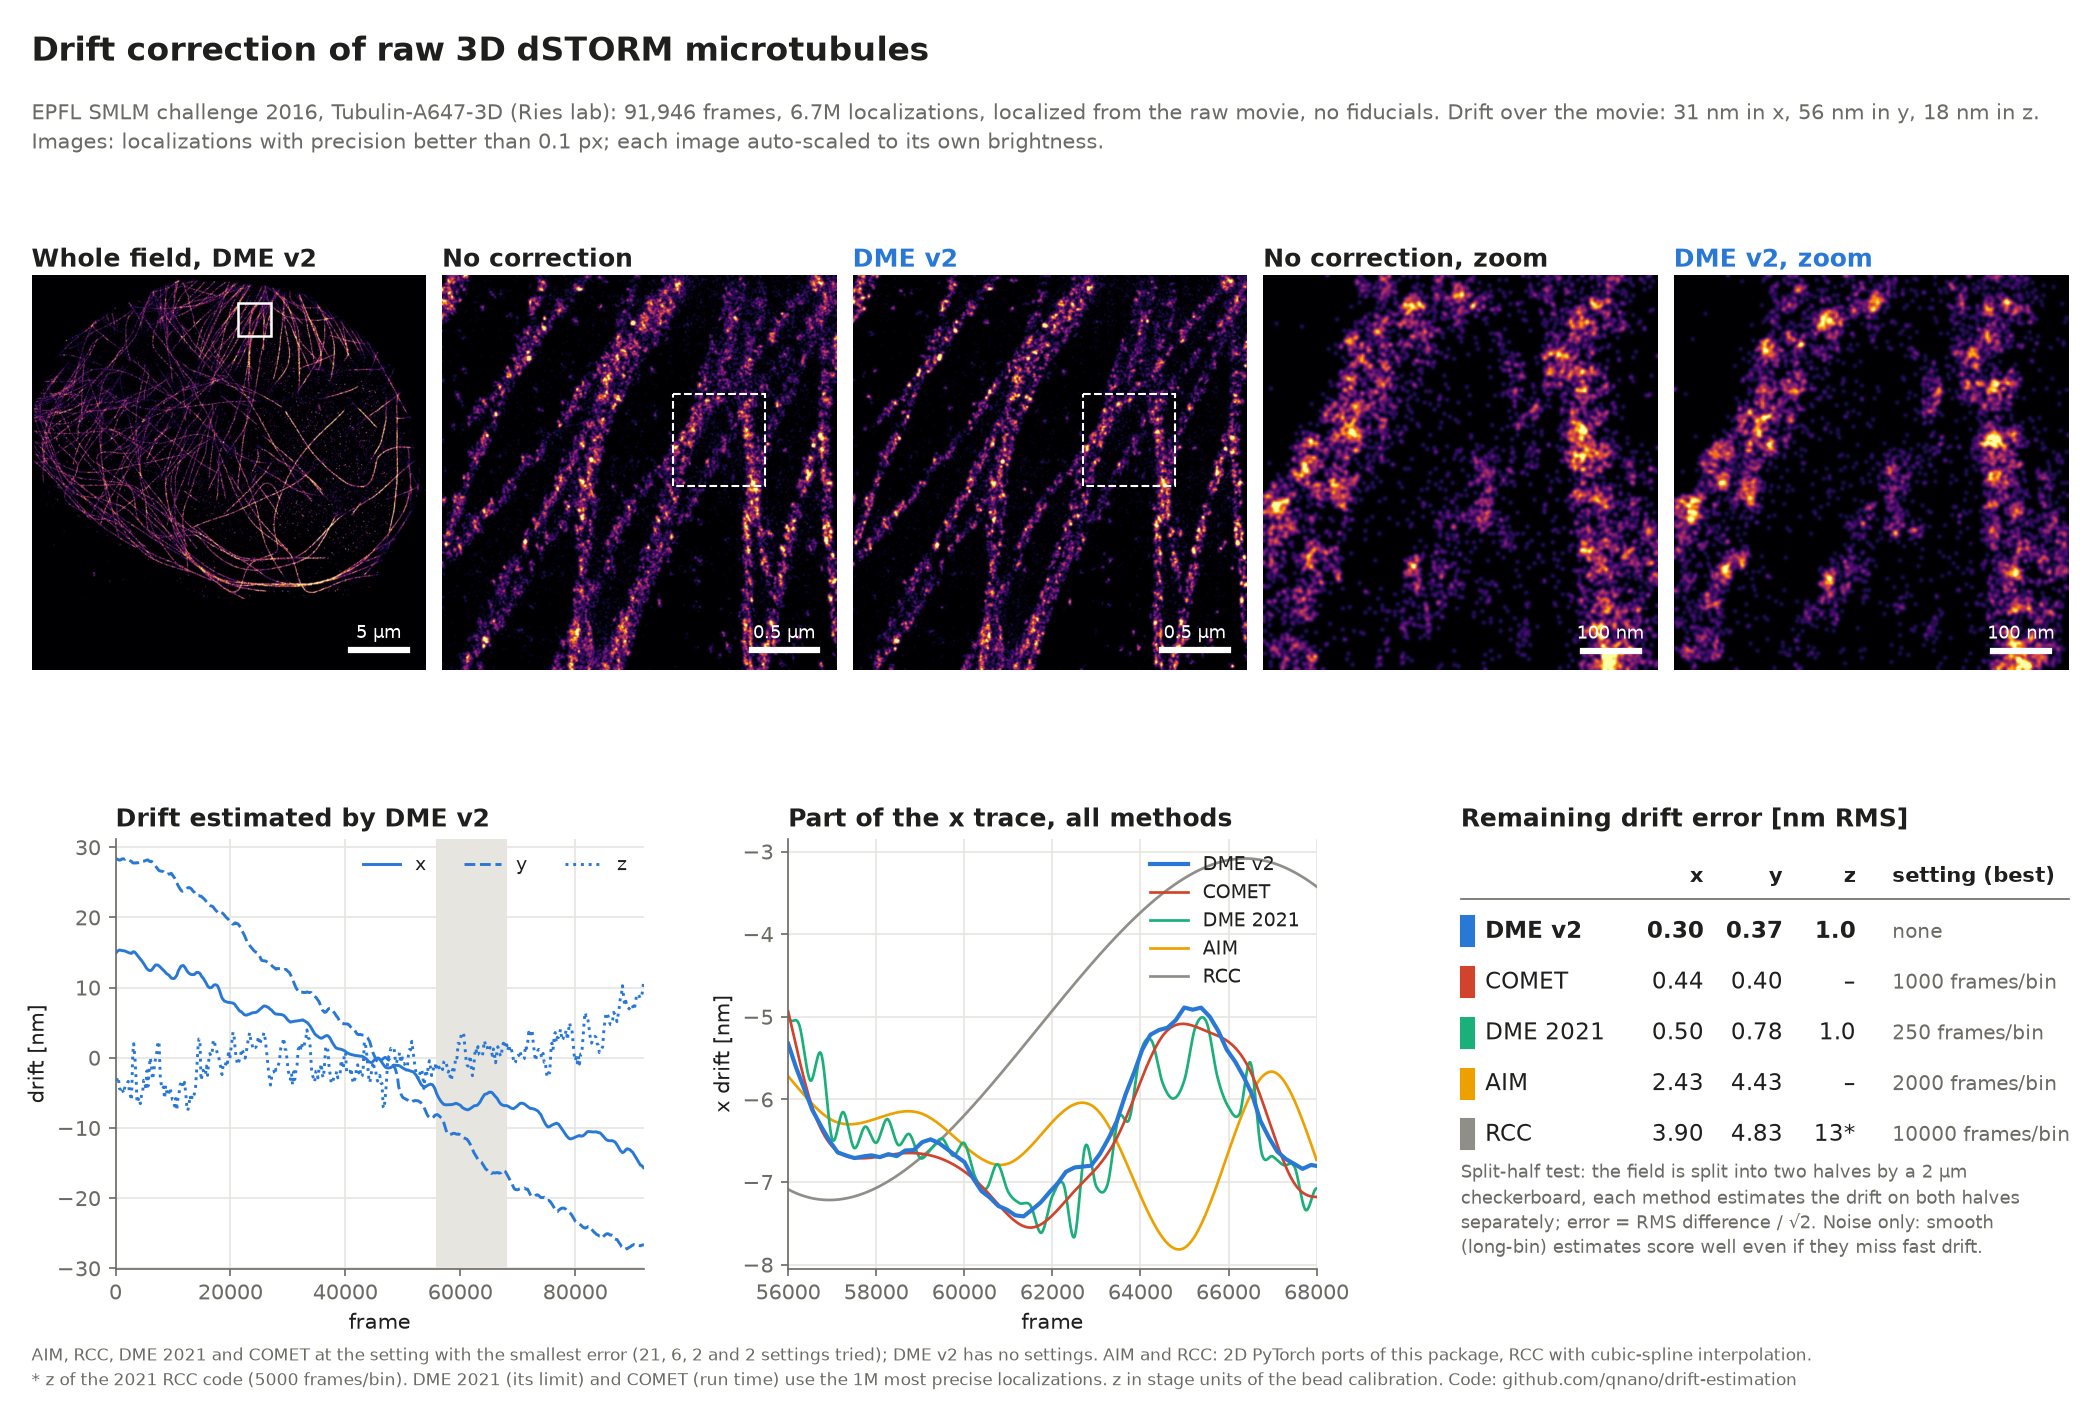
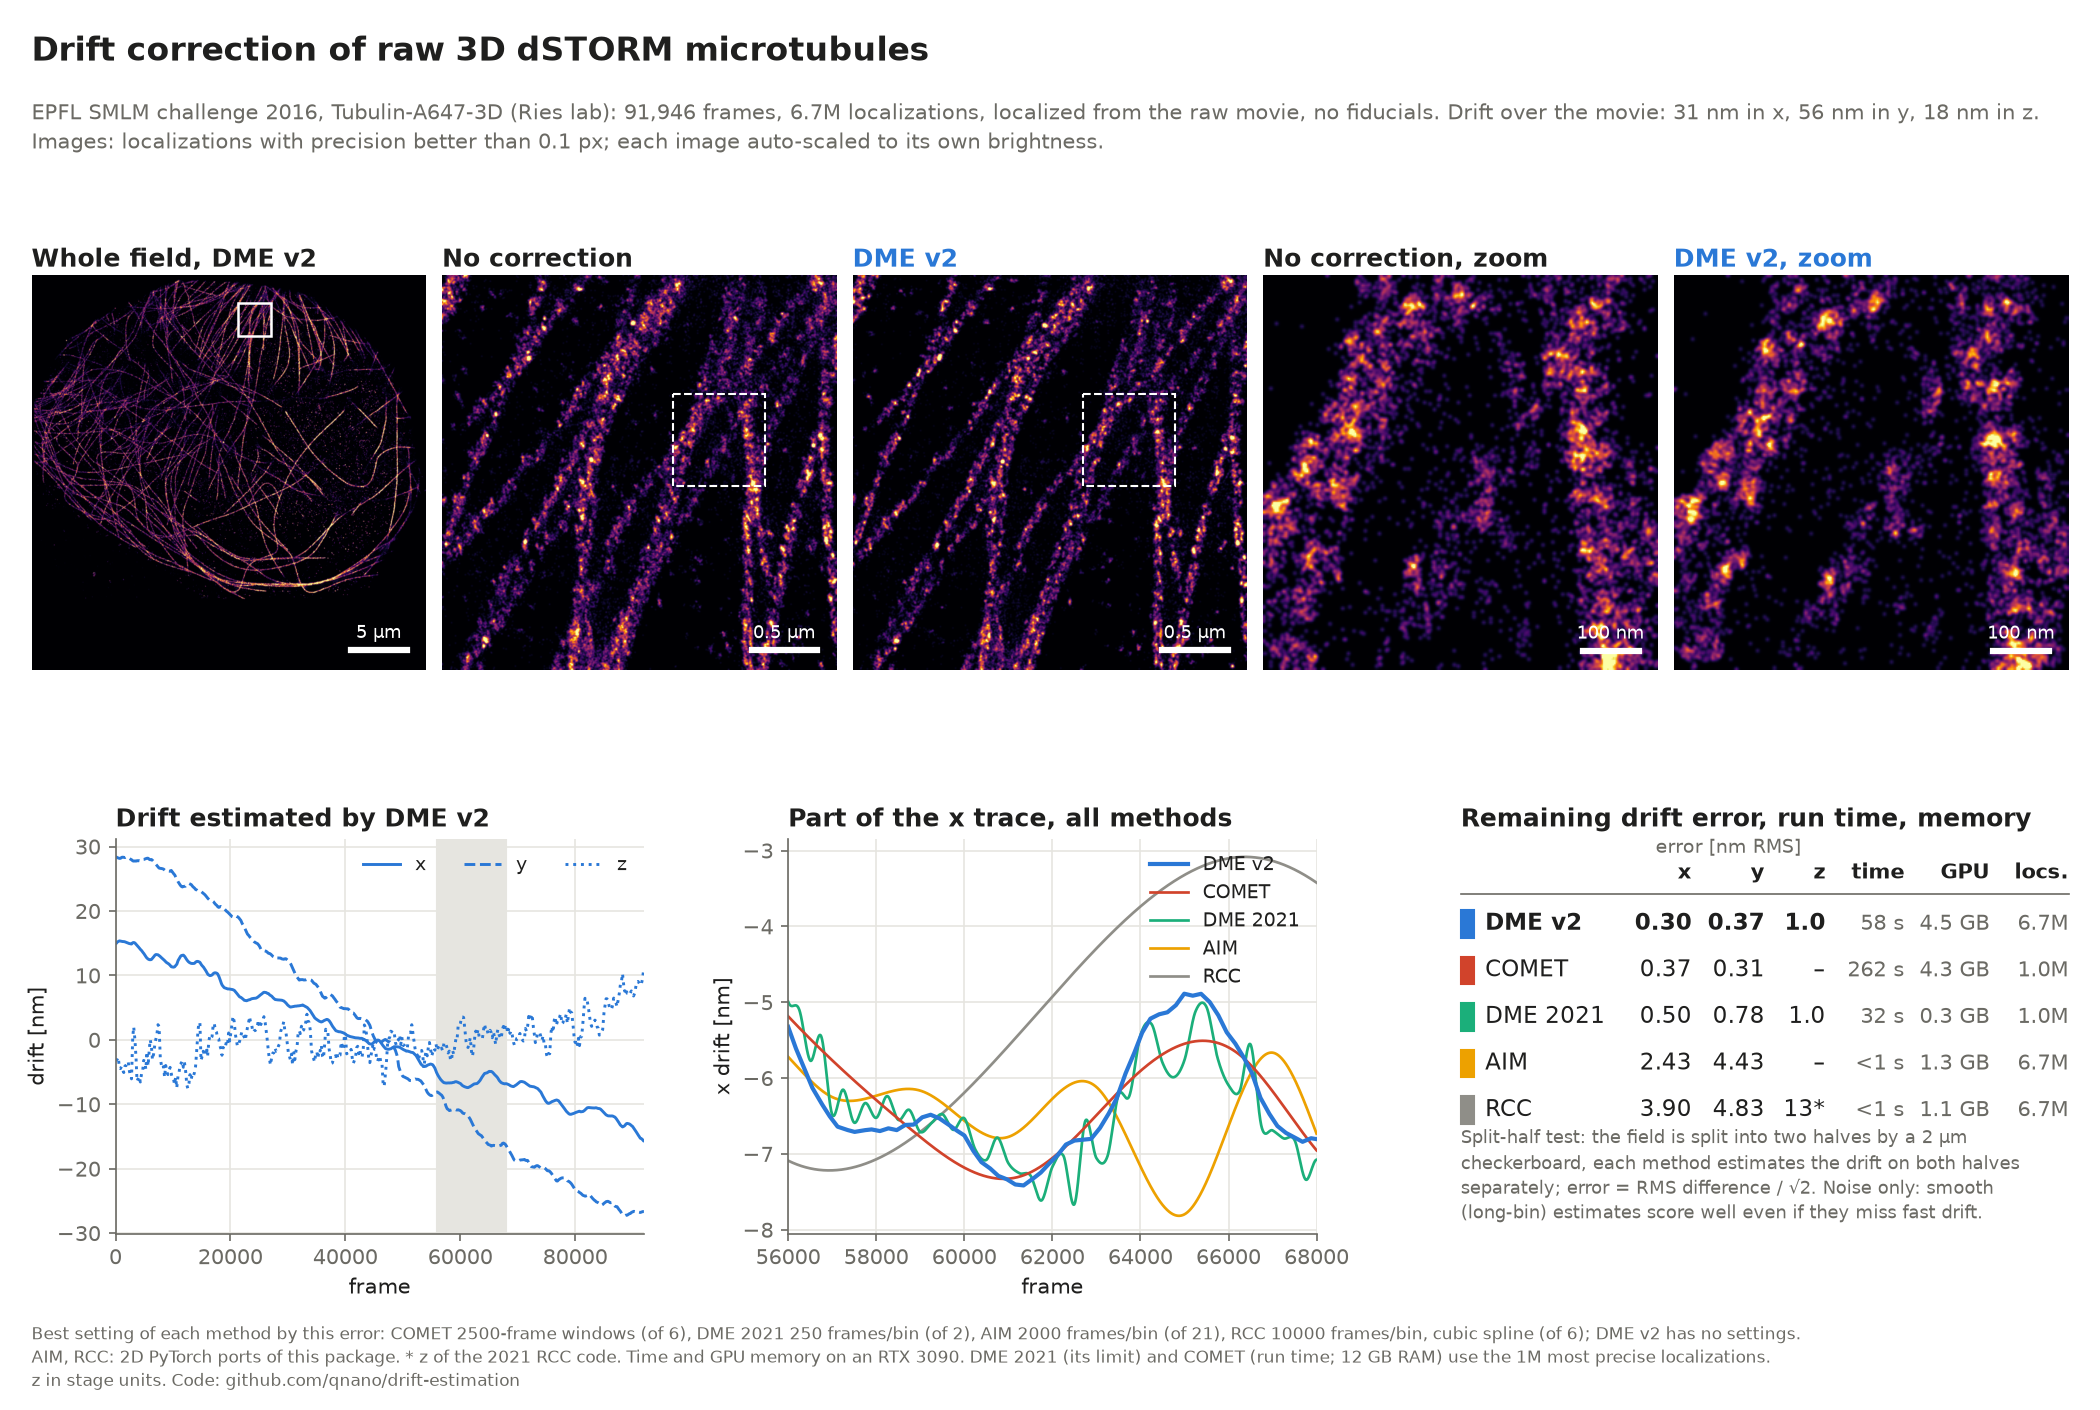
EPFL tubulin: full COMET sweep (best 2500-frame windows, 0.37 / 0.31 nm); run time and GPU memory per method
Claude-Session: https://claude.ai/code/session_01MCeZ1s93otYoT1FsjtimZY

diff --git a/benchmark/realdata_epfl/tub_figure.py b/benchmark/realdata_epfl/tub_figure.py
@@ -124,7 +124,7 @@ for k, (title, img, L, hl) in enumerate(panels):
     if k in (1, 2):
         ax.add_patch(Rectangle(((zx - cx) / 5, (zy - cy) / 5), ZL / 5, ZL / 5, fill=False, ec='white', lw=1.0, ls='--'))
 
-gbot = fig.add_gridspec(1, 3, left=0.055, right=0.985, top=0.405, bottom=0.10, wspace=0.26, width_ratios=[1, 1, 1.15])
+gbot = fig.add_gridspec(1, 3, left=0.055, right=0.985, top=0.405, bottom=0.125, wspace=0.26, width_ratios=[1, 1, 1.15])
 t = np.arange(F)
 T0, T1 = 56000, 68000
 ax1 = fig.add_subplot(gbot[0, 0])
@@ -146,38 +146,45 @@ for ax in (ax1, ax2):
     for sp in ('top', 'right'):
         ax.spines[sp].set_visible(False)
 
-# table of split-half errors
+# table: split-half errors, run time and GPU memory (drift/tub_bench.txt, written by tub_bench.py)
+bench = {}
+for line in open(f'{D}/drift/tub_bench.txt'):
+    w = line.split()
+    bench[w[0]] = dict(n=int(w[2]), time=float(w[4]), gpu=float(w[7]), ram=float(w[11]))
 ax3 = fig.add_subplot(gbot[0, 2]); ax3.axis('off')
-ax3.set_title('Remaining drift error [nm RMS]', fontsize=12, fontweight='bold', loc='left')
-rows = [('dme_v2', 'DME v2', 'dme_v2_3d', 'none'), ('comet', 'COMET', KEY['comet'], f'{CFB} frames/bin'),
-        ('dme2021', 'DME 2021', 'dme2021_3d_250', '250 frames/bin'),
-        ('aim', 'AIM', 'aim_2000_0.1', '2000 frames/bin'), ('rcc', 'RCC', KEY['rcc'], f'{RFB} frames/bin')]
+ax3.set_title('Remaining drift error, run time, memory', fontsize=12, fontweight='bold', loc='left')
+rows = [('dme_v2', 'DME v2', 'dme_v2_3d'), ('comet', 'COMET', KEY['comet']), ('dme2021', 'DME 2021', 'dme2021_3d_250'),
+        ('aim', 'AIM', 'aim_2000_0.1'), ('rcc', 'RCC', KEY['rcc'])]
 zrcc = split('rccorig3d_5000')[2]
-cols = [0.0, 0.40, 0.53, 0.65, 0.79]
-ax3.text(cols[1], 0.90, 'x', fontweight='bold', ha='right', transform=ax3.transAxes)
-ax3.text(cols[2], 0.90, 'y', fontweight='bold', ha='right', transform=ax3.transAxes)
-ax3.text(cols[3], 0.90, 'z', fontweight='bold', ha='right', transform=ax3.transAxes)
-ax3.text(cols[4] - 0.08, 0.90, 'setting (best)', fontweight='bold', transform=ax3.transAxes)
+cols = [0.38, 0.50, 0.60, 0.73, 0.87, 1.0]
+ax3.text((cols[0] + cols[2]) / 2 - 0.05, 0.965, 'error [nm RMS]', color=MUTED, ha='center', fontsize=9,
+         transform=ax3.transAxes)
+for cpos, hd in zip(cols, ('x', 'y', 'z', 'time', 'GPU', 'locs.')):
+    ax3.text(cpos, 0.90, hd, fontweight='bold', ha='right', transform=ax3.transAxes)
 ax3.plot([0, 1], [0.86, 0.86], color=MUTED, lw=0.8, transform=ax3.transAxes, clip_on=False)
-for r, (m, name, key, setting) in enumerate(rows):
+for r, (m, name, key) in enumerate(rows):
     e = split(key)
+    b = bench[m]
     y = 0.77 - r * 0.118
     fw = 'bold' if m == 'dme_v2' else 'normal'
     ax3.add_patch(Rectangle((0, y - 0.02), 0.022, 0.07, color=COL[m], transform=ax3.transAxes, clip_on=False))
     ax3.text(0.04, y, name, fontweight=fw, transform=ax3.transAxes, fontsize=11)
     zs = f'{e[2]:.1f}' if len(e) > 2 else (f'{zrcc:.0f}*' if m == 'rcc' else '–')
-    for cpos, sv in zip(cols[1:4], (f'{e[0]:.2f}', f'{e[1]:.2f}', zs)):
-        ax3.text(cpos, y, sv, ha='right', fontweight=fw, transform=ax3.transAxes, fontsize=11)
-    ax3.text(cols[4] - 0.08, y, setting, color=MUTED, transform=ax3.transAxes, fontsize=9.5)
-    print(name, e.round(2), flush=True)
+    ts = f'{b["time"]:.0f} s' if b['time'] >= 1 else '<1 s'
+    vals = (f'{e[0]:.2f}', f'{e[1]:.2f}', zs, ts, f'{b["gpu"]:.1f} GB', f'{b["n"] / 1e6:.1f}M')
+    for k_, (cpos, sv) in enumerate(zip(cols, vals)):
+        ax3.text(cpos, y, sv, ha='right', fontweight=fw if k_ < 3 else 'normal', transform=ax3.transAxes,
+                 fontsize=11 if k_ < 3 else 10, color=INK if k_ < 3 else MUTED)
+    print(name, e.round(2), b, flush=True)
 ax3.text(0, 0.02, 'Split-half test: the field is split into two halves by a 2 µm\ncheckerboard, each method estimates '
          'the drift on both halves\nseparately; error = RMS difference / √2. Noise only: smooth\n(long-bin) estimates '
          'score well even if they miss fast drift.', fontsize=8.6, color=MUTED, transform=ax3.transAxes, va='bottom',
          linespacing=1.4)
-fig.text(0.015, 0.012, f'AIM, RCC, DME 2021 and COMET at the setting with the smallest error (21, 6, 2 and {len(cs)} settings tried); '
-         'DME v2 has no settings. AIM and RCC: 2D PyTorch ports of this package, RCC with cubic-spline interpolation.\n'
-         '* z of the 2021 RCC code (5000 frames/bin). DME 2021 (its limit) and COMET (run time) use the 1M most precise localizations. '
-         'z in stage units of the bead calibration. Code: github.com/qnano/drift-estimation', fontsize=8.2,
-         color=MUTED, ha='left', va='bottom', linespacing=1.45)
+fig.text(0.015, 0.012, f'Best setting of each method by this error: COMET {CFB}-frame windows (of {len(cs)}), DME 2021 '
+         f'250 frames/bin (of 2), AIM 2000 frames/bin (of 21), RCC {RFB} frames/bin, cubic spline (of 6); DME v2 has no '
+         'settings.\nAIM, RCC: 2D PyTorch ports of this package. * z of the 2021 RCC code. Time and GPU memory on an '
+         f'RTX 3090. DME 2021 (its limit) and COMET (run time; {bench["comet"]["ram"]:.0f} GB RAM) use the 1M most '
+         'precise localizations.\nz in stage units. Code: github.com/qnano/drift-estimation', fontsize=8.0,
+         color=MUTED, ha='left', va='bottom', linespacing=1.4)
 fig.savefig(f'{D}/drift/tub_figure.png', dpi=150, facecolor='white')
 print('saved')

diff --git a/benchmark/realdata_epfl/tub_bench.py b/benchmark/realdata_epfl/tub_bench.py
@@ -1,0 +1,72 @@
+"""Run time, peak GPU memory (of this process, from nvidia-smi, CUDA context included) and peak RAM of one method at its
+best setting on the tubulin data. One method per process: python tub_bench.py dme_v2|dme2021|comet|aim|rcc
+Appends a line to drift/tub_bench.txt."""
+import os, sys, time, threading, subprocess, resource
+import numpy as np
+import pandas as pd
+
+m = sys.argv[1]
+D = os.path.join(os.environ.get('EPFL_DATA', '/mnt/data/SMLM_challenge'), 'Tubulin-A647-3D')
+PXX, PXY = 117.0, 118.2
+df = pd.read_csv(f'{D}/locs/Tubulin-A647-3D_locs.csv')
+df = df[df['flags'] == 0]
+p = np.ascontiguousarray(np.stack([df.x, df.y, df.z / 1000], 1), dtype=np.float32)
+c = np.ascontiguousarray(np.stack([df.crlb_x, df.crlb_y, df.crlb_z / 1000], 1), dtype=np.float32)
+f = np.ascontiguousarray(df.frame, dtype=np.int32)
+F = int(f.max()) + 1
+del df
+if m in ('dme2021', 'comet'):                       # 1M most precise localizations
+    s = np.sort(np.argsort(c[:, 0] * c[:, 1], kind='stable')[:1_000_000])
+    p, c, f = np.ascontiguousarray(p[s]), np.ascontiguousarray(c[s]), np.ascontiguousarray(f[s])
+ram0 = resource.getrusage(resource.RUSAGE_SELF).ru_maxrss / 1e6          # GB, data loaded
+peak, stop = [0.0], [False]
+
+
+def poll():
+    while not stop[0]:
+        try:
+            o = subprocess.run(['nvidia-smi', '--query-compute-apps=pid,used_memory', '--format=csv,noheader,nounits'],
+                               capture_output=True, text=True).stdout
+            for line in o.splitlines():
+                pid, mem = line.split(',')
+                if int(pid) == os.getpid():
+                    peak[0] = max(peak[0], float(mem) / 1024)
+        except Exception:
+            pass
+        time.sleep(0.25)
+
+
+if m == 'dme_v2':
+    sys.path.insert(0, os.environ.get('DME_PATH', '/tmp/fast/wt'))
+    from dme import dme_estimate
+    run = lambda: dme_estimate(p, f, c, estimatePrecision=False, verbose=False, numframes=F)
+elif m == 'aim':
+    sys.path.insert(0, os.environ.get('DME_PATH', '/tmp/fast/wt'))
+    from dme import aim
+    run = lambda: aim(p, f, interval=2000, intersect_d=0.1, numframes=F)
+elif m == 'rcc':
+    sys.path.insert(0, os.environ.get('DME_PATH', '/tmp/fast/wt'))
+    from dme import rcc_torch
+    run = lambda: rcc_torch(p[:, :2], f, timebins=F // 10000, zoom=2, maxdrift_px=10, numframes=F)
+elif m == 'dme2021':
+    sys.path.insert(0, os.environ.get('DME2021_PATH', os.path.expanduser('~/dme_v2_test')))
+    from dme.legacy import dme_estimate as leg
+    run = lambda: leg(p, f, c, 250, None, useCuda=True, display=False, estimatePrecision=False, initializeWithRCC=10,
+                      numframes=F)
+elif m == 'comet':
+    from comet import comet_run_kd
+    ds = np.zeros((len(p), 4))
+    ds[:, 0], ds[:, 1], ds[:, 3] = p[:, 0] * PXX, p[:, 1] * PXY, f
+    run = lambda: comet_run_kd(ds, segmentation_mode=2, segmentation_var=2500, max_drift_nm=300, target_sigma_nm=10.0,
+                               min_max_frames=(0, F - 1), random_state=0)
+th = threading.Thread(target=poll, daemon=True)
+th.start()
+t = time.time()
+run()
+dt = time.time() - t
+time.sleep(0.6)
+stop[0] = True
+ram = resource.getrusage(resource.RUSAGE_SELF).ru_maxrss / 1e6
+line = f'{m:8s} N {len(p):8d}  time {dt:7.1f} s  GPU {peak[0]:5.2f} GB  RAM peak {ram:5.1f} GB (data loaded: {ram0:.1f} GB)'
+print(line, flush=True)
+open(f'{D}/drift/tub_bench.txt', 'a').write(line + '\n')

diff --git a/docs/comparison.md b/docs/comparison.md
@@ -96,17 +96,21 @@ the setting with the smallest error is shown (DME v2 has no settings). The drift
 
 ![tubulin](epfl_tubulin.png)
 
-Tubulin:
+Tubulin (run time and GPU memory of one run on an RTX 3090, `benchmark/realdata_epfl/tub_bench.py`):
 
-| method | error x (nm) | error y (nm) | error z (nm) | runtime, all data (s) | best setting (of) |
-|---|---|---|---|---|---|
-| **DME v2** | **0.30** | **0.37** | **1.0** | 120 | – |
-| COMET (2D) | 0.44 | 0.40 | – | 310 | 1000-frame windows, 10 nm (2 so far), best 1M localizations |
-| DME 2021 (3D) | 0.50 | 0.78 | 1.0 | 49 | 250 frames per bin (2), best 1M localizations |
-| DME 2021 (2D) | 0.44 | 1.29 | – | 12 | 1000 frames per bin (5), best 1M localizations |
-| AIM (2D) | 2.4 | 4.4 | – | 1 | 2000 frames per bin, 0.1 px (21) |
-| RCC (2D) | 3.9 | 4.8 | – | <1 | 10000 frames per bin (6) |
-| RCC 2021 code (3D) | 4.5 | 8.3 | 13 | 38 | 5000 frames per bin (3) |
+| method | error x (nm) | error y (nm) | error z (nm) | run time (s) | GPU memory (GB) | localizations used | best setting (of) |
+|---|---|---|---|---|---|---|---|
+| **DME v2** | **0.30** | 0.37 | **1.0** | 58 | 4.5 | 6.7M | – |
+| COMET (2D) | 0.37 | **0.31** | – | 262 | 4.3 (and 12 GB RAM) | 1M | 2500-frame windows, 10 nm (6) |
+| DME 2021 (3D) | 0.50 | 0.78 | 1.0 | 32 | 0.3 | 1M | 250 frames per bin (2) |
+| DME 2021 (2D) | 0.44 | 1.29 | – | 12 | – | 1M | 1000 frames per bin (5) |
+| AIM (2D) | 2.4 | 4.4 | – | <1 | 1.3 | 6.7M | 2000 frames per bin, 0.1 px (21) |
+| RCC (2D) | 3.9 | 4.8 | – | <1 | 1.1 | 6.7M | 10000 frames per bin (6) |
+| RCC 2021 code (3D) | 4.5 | 8.3 | 13 | 38 | – | 6.7M | 5000 frames per bin (3) |
+
+COMET by window length (frames): 50: 1.23 / 1.64, 100: 0.82 / 1.08, 250: 0.61 / 0.69, 500: 0.53 / 0.50, 1000: 0.44 / 0.40,
+2500: 0.37 / 0.31 nm (x / y). Its error keeps falling with the window length up to the longest one tried, and at 2500
+frames it equals DME v2 in x and y (0.34 nm RMS over both axes for both methods).
 
 Nuclear pores:
 
@@ -118,16 +122,16 @@ Nuclear pores:
 | AIM (2D) | 2.0 | 2.7 | – | 4000 frames per bin, 0.1 px (18) |
 | RCC 2021 code (3D) | 4.3 | 3.4 | 14 | 10000 frames per bin (3) |
 
-Notes: COMET was run on the 1M most precise localizations of each subset: on a full half (3.4M) one run did not
-finish in 40 minutes and used 66 GB of RAM; two of its six window lengths have finished so far (250 frames: 0.61 / 0.69 nm). AIM here is the
+Notes: COMET and DME 2021 were run on the 1M most precise localizations of each subset: DME 2021 cannot use more, and
+COMET on a full half (3.4M) did not finish one run in 40 minutes and used 66 GB of RAM. AIM here is the
 2D PyTorch port in this package. "RCC (2D)" is `rcc_torch` with `maxdrift_px=10`, the peak search
 window of the 2021 RCC code; with its default (whole image) it fails on these sparse dSTORM time bins. For tubulin the
 RCC bins are interpolated with a cubic spline (3.3 / 4.5 nm with linear interpolation); for the pores linearly. The pixel size
 is not given with the data; 117.0 / 118.2 nm (tubulin) and 134.9 / 142.0 nm (pores) per pixel in x / y were taken
 from the scale of the Ries-lab submission on the challenge site. z is in stage units of the bead calibration (for
 tubulin with an assumed 10 nm step). In rendered images the methods are hard to tell apart: a few nm of drift error
-is small next to the ~10 nm localization precision of this data. DME v2 needed 3.7 GB of
-GPU memory for the 6.7M tubulin localizations (limit: `gpuMemoryGB`, default 8). Scripts: `benchmark/realdata_epfl/`.
+is small next to the ~10 nm localization precision of this data. GPU memory is that of the process as reported by nvidia-smi, CUDA context included; DME v2 stays within its
+memory budget (`gpu_memory_gb`, default 8). Scripts: `benchmark/realdata_epfl/`.
 
 ## Reproducing
 

diff --git a/README.md b/README.md
@@ -23,8 +23,8 @@ On simulated DNA-PAINT data DME v2 is 1.6–2.1× more precise than COMET, the n
 than AIM, RCC and the 2021 DME code, although each of those was run at its best settings, picked with the true drift
 (DME v2 has no settings). On a real DNA-PAINT nanoruler (the dataset in `example_data/`) it is also the most precise.
 On raw 3D dSTORM data with real drift (EPFL challenge microtubules, 6.7M localizations) its split-half error is
-0.3 nm in x and y and 1 nm in z, against 0.4 nm (x, y only) for COMET, 0.5–1.3 nm for the 2021 code and 2–5 nm for AIM and
-RCC at their best settings (figure below).
+0.3–0.4 nm in x and y and 1 nm in z. COMET at its best window length reaches the same x-y error (on the 1M most
+precise localizations, 4.5× slower); the 2021 code gives 0.5–0.8 nm, AIM and RCC 2–5 nm (figure below).
 It is slower than AIM and RCC: 3 s for 10k localizations, 20 s for 1M, 3 minutes for 10M on an RTX 3090.
 Details, tables and the settings searched: [docs/comparison.md](docs/comparison.md).
 
